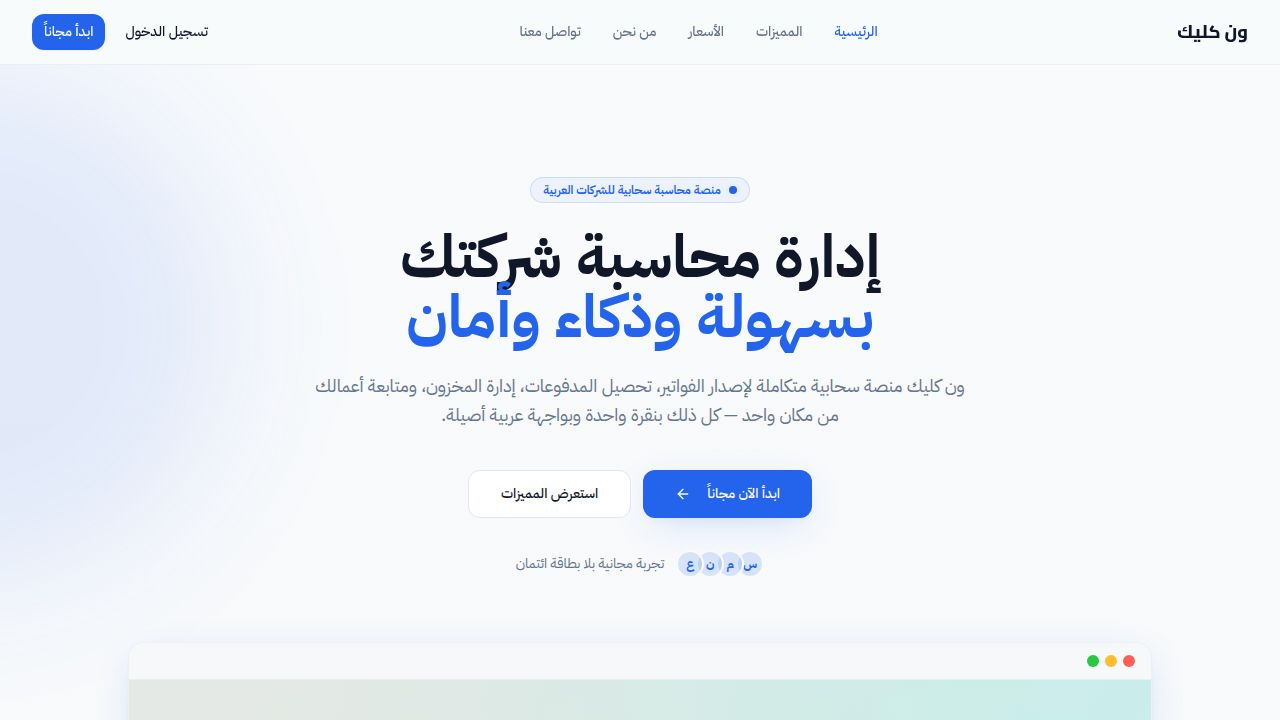
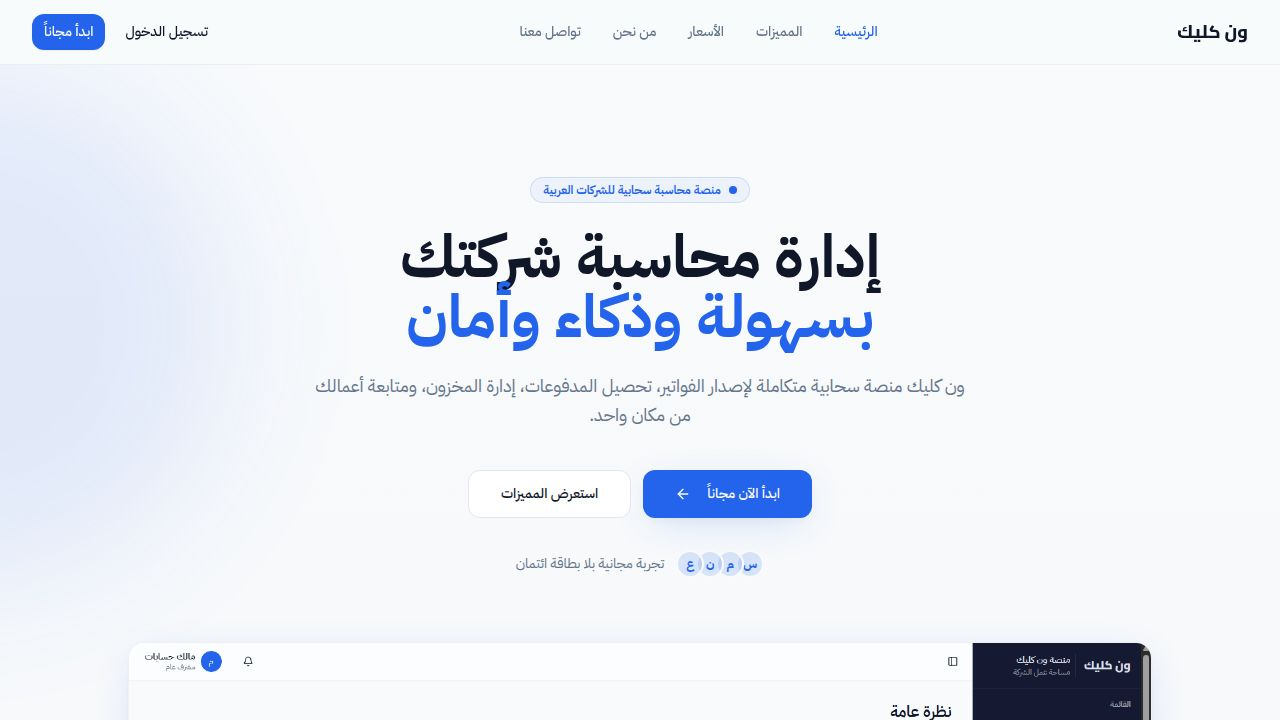
Fix company settings fields that appear saved but reset on refresh (Task #55)
Problem: Several fields on the Settings page showed "تم حفظ التغييرات تلقائياً"
but were silently dropped — never sent to the server and never reloaded on
refresh. DB schema was also missing columns for the affected fields.

Changes:

1. DB schema (lib/db/src/schema/hesabat.ts):
   Added 7 new columns to the companies table: invoice_sequence_start,
   invoice_template, invoice_accent_color, invoice_terms, invoice_footer,
   invoice_currency_symbol, owner_name.

2. Migration (artifacts/api-server/src/db/migrations/011_company_invoice_settings.sql):
   Idempotent ADD COLUMN IF NOT EXISTS migration for all 7 new columns with
   sane defaults. Applied successfully to dev DB.

3. API GET /api/companies/me (companies/routes.ts):
   Now splits the stored address string on '، ' and returns addr_street,
   addr_district, addr_city, addr_country, addr_postal_code as explicit fields
   alongside the raw address column.

4. API PATCH /api/companies/me (companies/routes.ts):
   Added all 7 new fields to UPDATABLE allow-list and Zod updateSchema so
   the server now accepts and persists them.

5. Frontend hydration fix (Settings.tsx):
   - GET response now populates ownerName, address sub-fields from the
     server-decomposed addr_* fields, template, accentColor, terms, footer,
     currencySymbol, sequenceStart.
   - storedCurrencySymbol applied via setCurrencySymbol on load.

6. Frontend auto-save fix (Settings.tsx):
[…]

diff --git a/artifacts/hesabat/src/pages/app/Settings.tsx b/artifacts/hesabat/src/pages/app/Settings.tsx
@@ -157,25 +157,43 @@ const Settings = () => {
         const res = await api.get<{ data: Record<string, unknown> }>('/api/companies/me');
         if (cancelled || !res?.data) return;
         const r = res.data as Record<string, string | number | null>;
+
+        // Split stored address (comma-separated: street، district، city، country، postalCode)
+        const rawAddress = (r.address as string) ?? '';
+        const addressParts = rawAddress ? rawAddress.split('، ') : [];
+
         setProfile((p) => ({
           ...p,
           name: (r.name as string) ?? p.name,
-          ownerName: p.ownerName,
+          ownerName: (r.owner_name as string) ?? p.ownerName,
           email: (r.email as string) ?? p.email,
           phone: (r.phone as string) ?? p.phone,
           taxNumber: (r.tax_number as string) ?? p.taxNumber,
           commercialReg: (r.commercial_register as string) ?? p.commercialReg,
+          street: addressParts[0] ?? p.street,
+          district: addressParts[1] ?? p.district,
+          city: addressParts[2] ?? p.city,
+          country: addressParts[3] ?? p.country,
+          postalCode: addressParts[4] ?? p.postalCode,
         }));
         const currencyCode = (r.currency as string) ?? null;
         if (currencyCode) setCompanyCurrencyCode(currencyCode);
+        const storedSymbol = (r.invoice_currency_symbol as string) ?? null;
+        if (storedSymbol) setCurrencySymbol(storedSymbol);
         setInvoiceCfg((c) => ({
           ...c,
           prefix: (r.invoice_prefix as string) ?? c.prefix,
           yearFormat: ((r.invoice_year_format as 'full' | 'short' | 'none') ?? c.yearFormat),
+          sequenceStart: Number(r.invoice_sequence_start ?? c.sequenceStart),
           padding: Number(r.invoice_padding ?? c.padding),
           separator: (r.invoice_separator as string) ?? c.separator,
           currency: currencyCode ?? c.currency,
+          currencySymbol: storedSymbol ?? (currencyCode ? (CURRENCIES.find(x => x.code === currencyCode)?.symbol ?? c.currencySymbol) : c.currencySymbol),
           taxRate: Number(r.vat_rate ?? c.taxRate),
+          template: ((r.invoice_template as InvoiceConfig['template']) ?? c.template),
+          accentColor: (r.invoice_accent_color as string) ?? c.accentColor,
+          terms: r.invoice_terms != null ? (r.invoice_terms as string) : c.terms,
+          footer: r.invoice_footer != null ? (r.invoice_footer as string) : c.footer,
           logoUrl: (r.logo_url as string) ?? c.logoUrl,
           stampUrl: (r.stamp_url as string) ?? c.stampUrl,
         }));
@@ -197,6 +215,7 @@ const Settings = () => {
         try {
           await api.patch('/api/companies/me', {
             name: profile.name,
+            owner_name: profile.ownerName || null,
             email: profile.email || null,
             phone: profile.phone || null,
             tax_number: profile.taxNumber || null,
@@ -204,10 +223,16 @@ const Settings = () => {
             address: [profile.street, profile.district, profile.city, profile.country, profile.postalCode].filter(Boolean).join('، ') || null,
             invoice_prefix: invoiceCfg.prefix,
             invoice_year_format: invoiceCfg.yearFormat,
+            invoice_sequence_start: invoiceCfg.sequenceStart,
             invoice_padding: invoiceCfg.padding,
             invoice_separator: invoiceCfg.separator,
             currency: invoiceCfg.currency,
+            invoice_currency_symbol: invoiceCfg.currencySymbol || null,
             vat_rate: invoiceCfg.taxRate,
+            invoice_template: invoiceCfg.template,
+            invoice_accent_color: invoiceCfg.accentColor,
+            invoice_terms: invoiceCfg.terms || null,
+            invoice_footer: invoiceCfg.footer || null,
             logo_url: invoiceCfg.logoUrl ?? null,
             stamp_url: invoiceCfg.stampUrl ?? null,
           });
@@ -224,7 +249,7 @@ const Settings = () => {
     return () => {
       if (debounceRef.current) clearTimeout(debounceRef.current);
     };
-  }, [profile, invoiceCfg, client]);
+  }, [profile, invoiceCfg]);
 
   const fullAddress = [profile.street, profile.district, profile.city, profile.country, profile.postalCode]
     .filter(Boolean)

diff --git a/artifacts/api-server/src/modules/companies/routes.ts b/artifacts/api-server/src/modules/companies/routes.ts
@@ -21,6 +21,9 @@ const UPDATABLE = [
   'email', 'phone', 'address', 'logo_url', 'stamp_url',
   'invoice_prefix', 'invoice_year_format', 'invoice_padding',
   'invoice_separator', 'currency', 'vat_rate',
+  'owner_name', 'invoice_template', 'invoice_accent_color',
+  'invoice_terms', 'invoice_footer', 'invoice_currency_symbol',
+  'invoice_sequence_start',
 ] as const;
 
 const updateSchema = z.object({
@@ -39,6 +42,13 @@ const updateSchema = z.object({
   invoice_separator: z.string().max(5).optional(),
   currency: z.string().optional(),
   vat_rate: z.coerce.number().min(0).max(100).optional(),
+  owner_name: z.string().optional().nullable(),
+  invoice_template: z.enum(['modern','classic','minimal']).optional(),
+  invoice_accent_color: z.string().max(20).optional(),
+  invoice_terms: z.string().optional().nullable(),
+  invoice_footer: z.string().optional().nullable(),
+  invoice_currency_symbol: z.string().max(20).optional().nullable(),
+  invoice_sequence_start: z.coerce.number().int().min(1).optional(),
 });
 
 // SEC-06: only company_admin may rewrite tax / numbering / branding data.

diff --git a/lib/db/src/schema/hesabat.ts b/lib/db/src/schema/hesabat.ts
@@ -48,6 +48,13 @@ export const companies = pgTable('companies', {
   invoiceYearFormat: varchar('invoice_year_format', { length: 10 }).notNull().default('full'),
   invoicePadding: integer('invoice_padding').notNull().default(4),
   invoiceSeparator: varchar('invoice_separator', { length: 5 }).notNull().default('-'),
+  invoiceSequenceStart: integer('invoice_sequence_start').notNull().default(1),
+  invoiceTemplate: varchar('invoice_template', { length: 20 }).notNull().default('modern'),
+  invoiceAccentColor: varchar('invoice_accent_color', { length: 20 }).notNull().default('#4F46E5'),
+  invoiceTerms: text('invoice_terms'),
+  invoiceFooter: text('invoice_footer'),
+  invoiceCurrencySymbol: varchar('invoice_currency_symbol', { length: 20 }),
+  ownerName: varchar('owner_name', { length: 200 }),
   currency: varchar('currency', { length: 10 }).notNull().default('SAR'),
   vatRate: numeric('vat_rate', { precision: 5, scale: 2 }).notNull().default('15.00'),
   smtpSettings: jsonb('smtp_settings'),